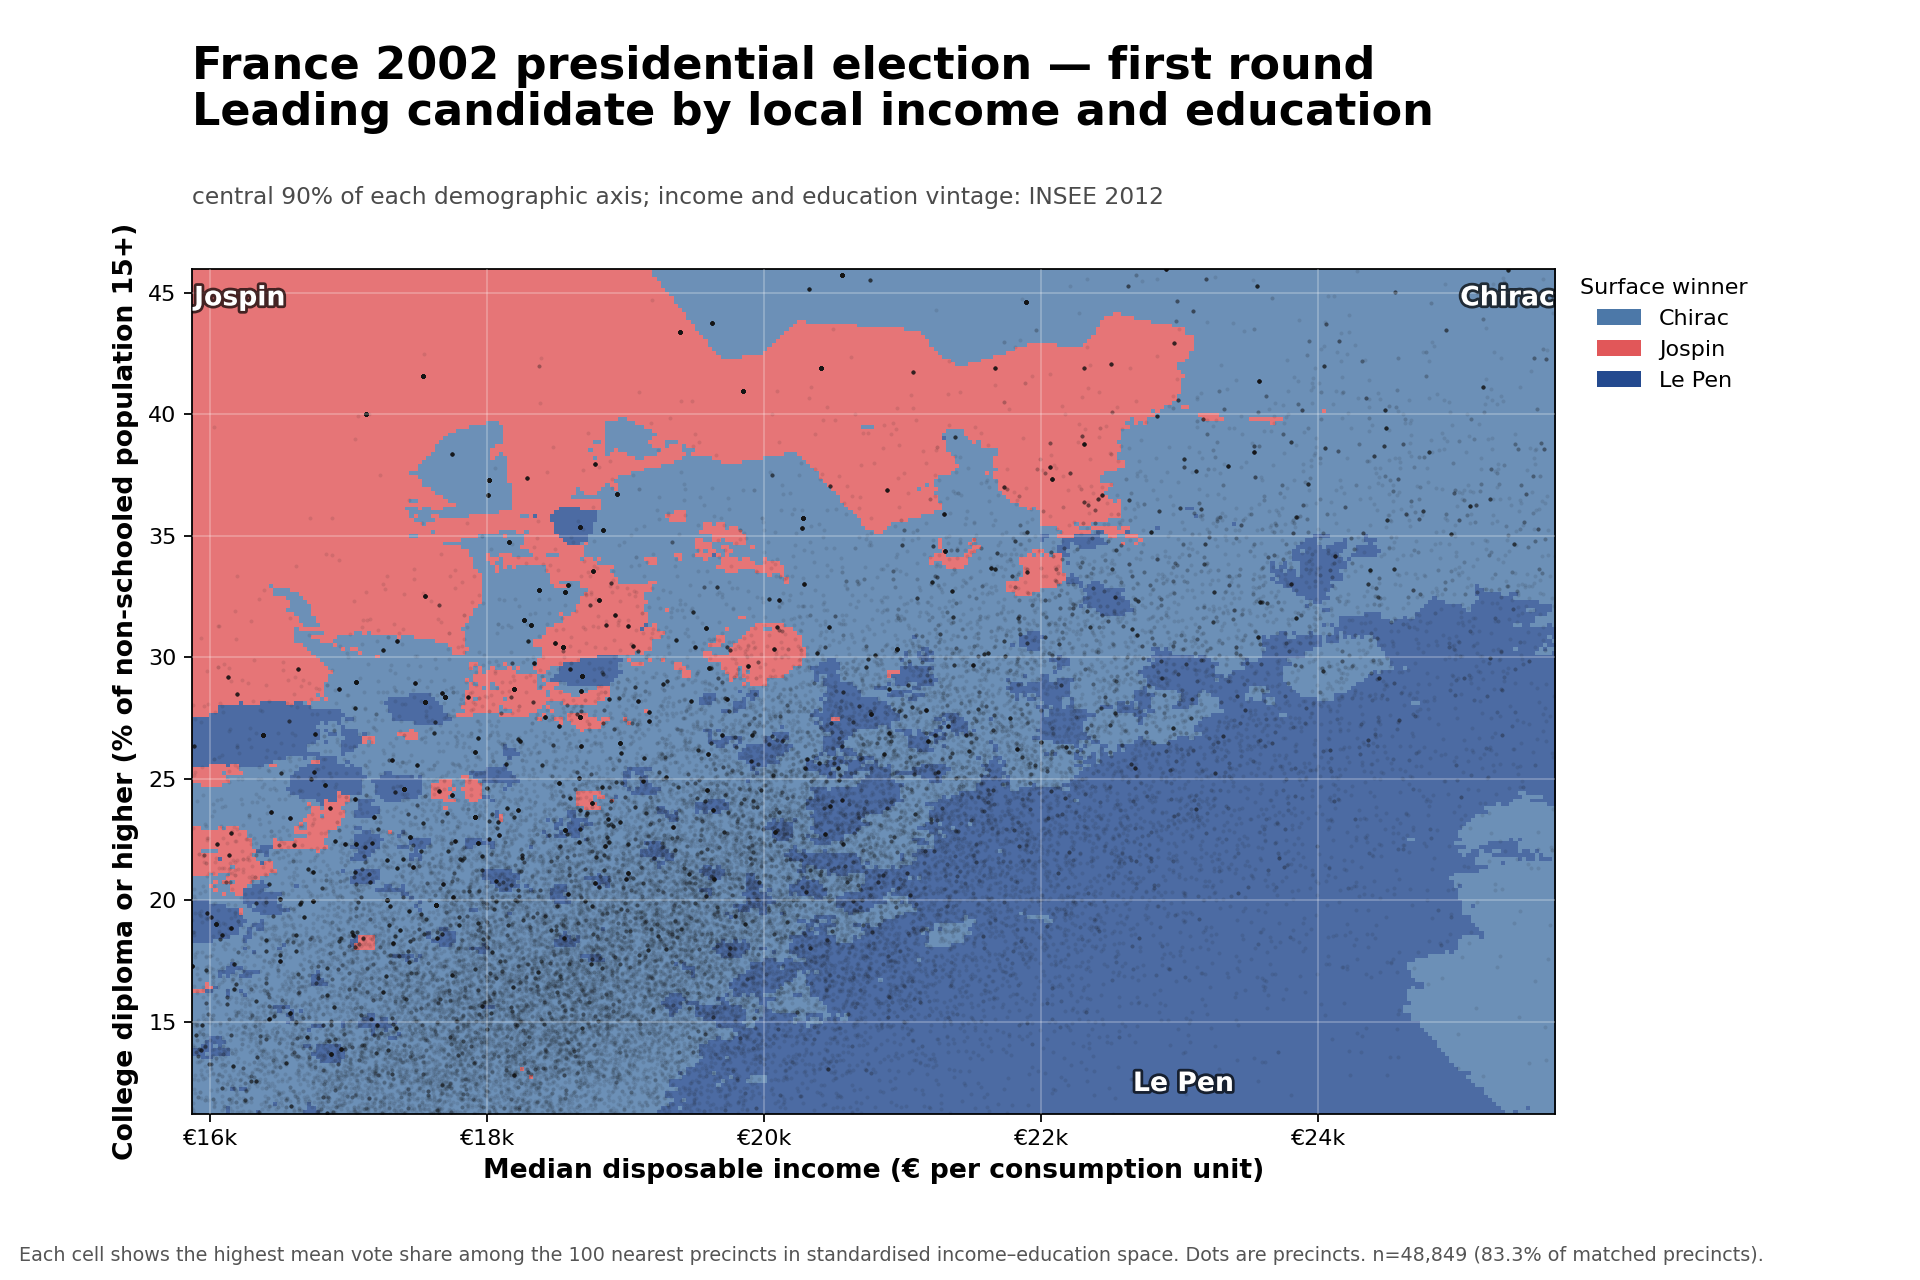
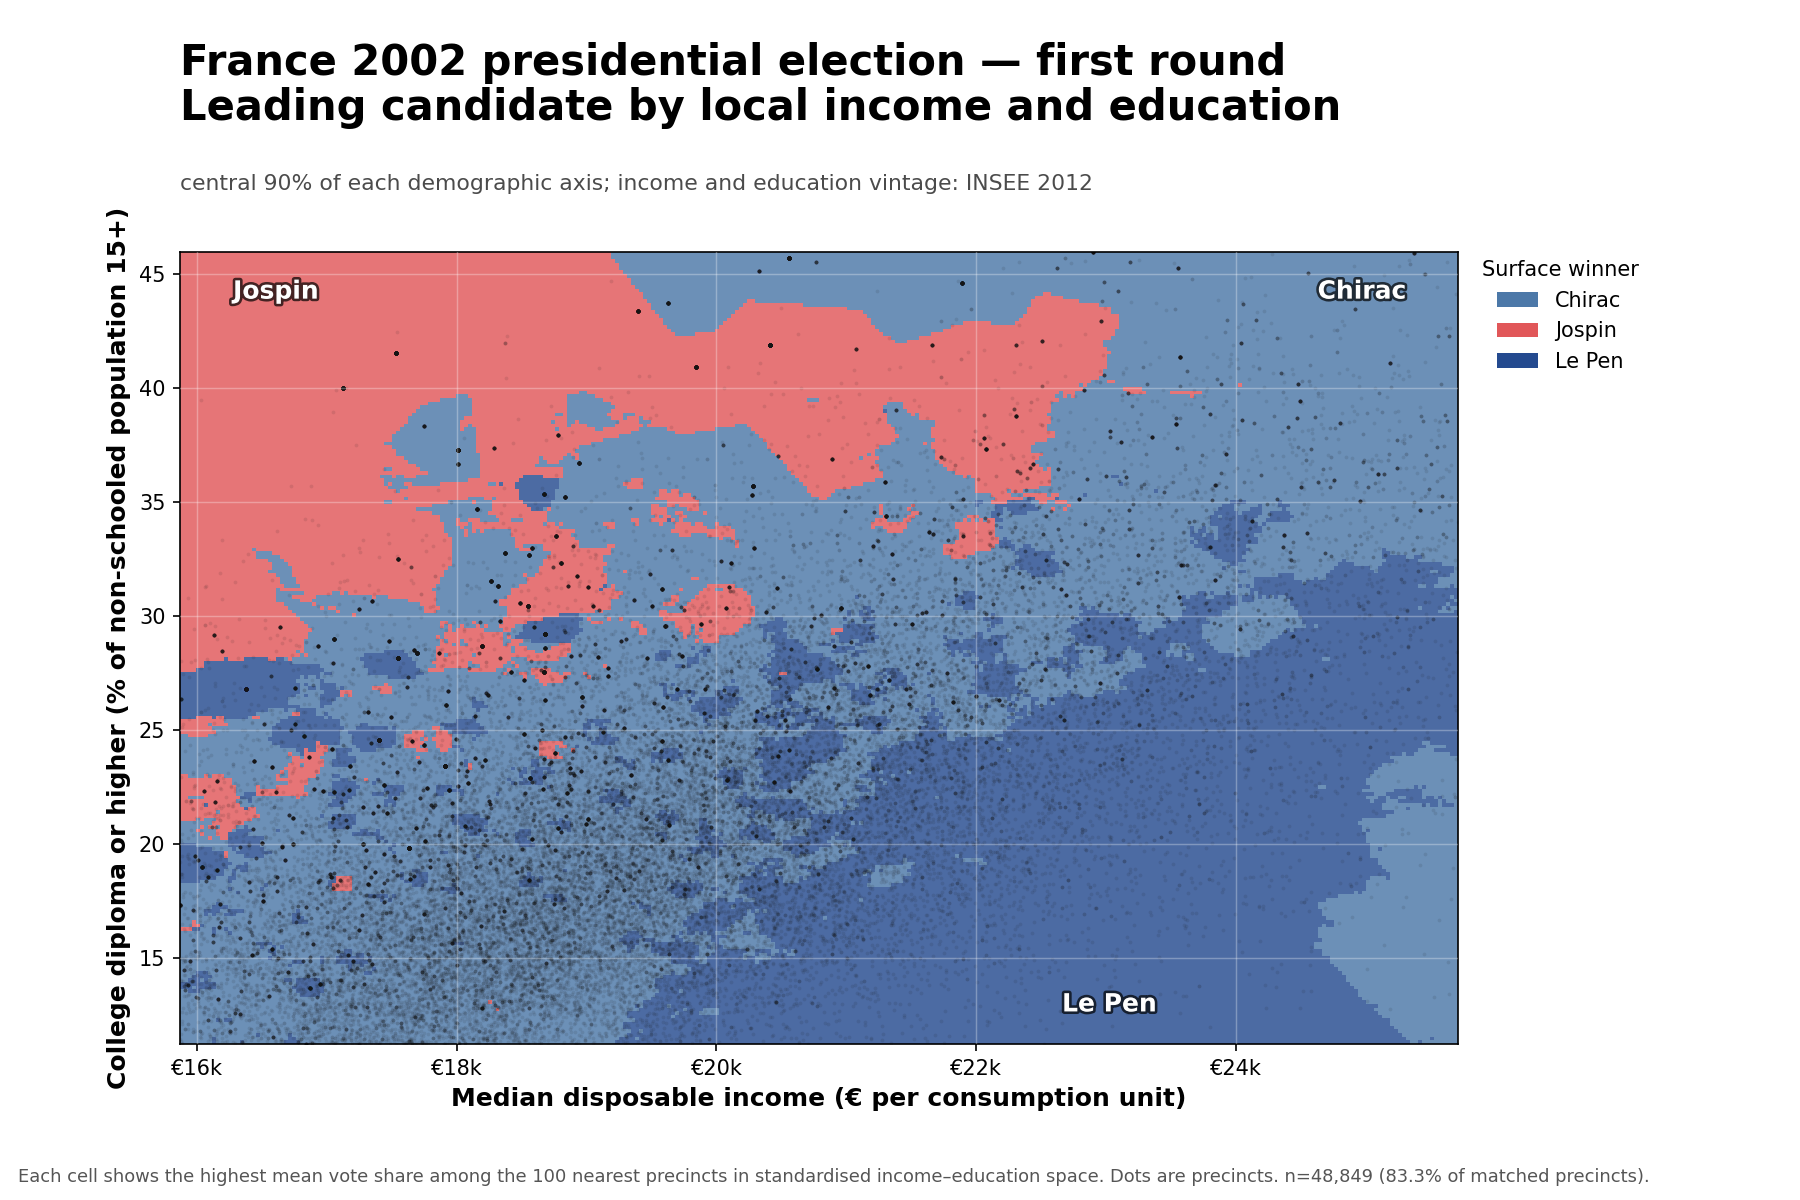
Fix candidate landscape image bounds

diff --git a/analysis/candidate_landscape_income_education.py b/analysis/candidate_landscape_income_education.py
@@ -350,7 +350,8 @@ def label_regions(
     y_grid: np.ndarray,
     candidate_names: list[str],
     colours: list[str],
-) -> None:
+) -> list[plt.Text]:
+    labels: list[plt.Text] = []
     total_cells = surface.size
     for index in np.unique(surface):
         mask = surface == index
@@ -366,8 +367,9 @@ def label_regions(
         row, column = np.unravel_index(np.argmax(distance_transform_edt(region)), region.shape)
         text_colour = readable_text_colour(colours[index])
         outline = "white" if text_colour == "#111111" else "black"
-        x_padding = 0.035 * (x_grid.max() - x_grid.min())
-        y_padding = 0.035 * (y_grid.max() - y_grid.min())
+        # Keep even long names such as "Mélenchon" fully inside the axes.
+        x_padding = 0.075 * (x_grid.max() - x_grid.min())
+        y_padding = 0.050 * (y_grid.max() - y_grid.min())
         text_x = np.clip(x_grid[column], x_grid.min() + x_padding, x_grid.max() - x_padding)
         text_y = np.clip(y_grid[row], y_grid.min() + y_padding, y_grid.max() - y_padding)
         label = ax.text(
@@ -383,6 +385,52 @@ def label_regions(
             clip_on=True,
         )
         label.set_path_effects([path_effects.withStroke(linewidth=2.5, foreground=outline, alpha=0.7)])
+        labels.append(label)
+    return labels
+
+
+def validate_layout(fig: plt.Figure, ax: plt.Axes, region_labels: list[plt.Text]) -> None:
+    """Fail the build if text is clipped by the canvas or plot boundary."""
+    fig.canvas.draw()
+    renderer = fig.canvas.get_renderer()
+    canvas = fig.bbox
+    axes_box = ax.get_window_extent(renderer)
+
+    checked_text = [
+        *fig.texts,
+        ax.title,
+        ax.xaxis.label,
+        ax.yaxis.label,
+        *ax.get_xticklabels(),
+        *ax.get_yticklabels(),
+    ]
+    legend = ax.get_legend()
+    if legend is not None:
+        checked_text.extend(legend.get_texts())
+        checked_text.append(legend.get_title())
+
+    for artist in checked_text:
+        if not artist.get_visible() or not artist.get_text().strip():
+            continue
+        box = artist.get_window_extent(renderer)
+        # Locators can retain ticks just outside the displayed range. They are
+        # not rendered, so exclude them from the canvas-clipping assertion.
+        if artist in ax.get_xticklabels() and not axes_box.overlaps(box):
+            continue
+        if artist in ax.get_yticklabels() and not axes_box.overlaps(box):
+            continue
+        if box.x0 < -1 or box.y0 < -1 or box.x1 > canvas.x1 + 1 or box.y1 > canvas.y1 + 1:
+            raise ValueError(f"Text falls outside figure canvas: {artist.get_text()!r}")
+
+    for artist in region_labels:
+        box = artist.get_window_extent(renderer)
+        if (
+            box.x0 < axes_box.x0 + 2
+            or box.y0 < axes_box.y0 + 2
+            or box.x1 > axes_box.x1 - 2
+            or box.y1 > axes_box.y1 - 2
+        ):
+            raise ValueError(f"Candidate label is clipped by plot boundary: {artist.get_text()!r}")
 
 
 def plot_landscape(
@@ -435,7 +483,7 @@ def plot_landscape(
         rasterized=True,
         zorder=2,
     )
-    label_regions(ax, surface, x_grid, y_grid, candidate_names, colours)
+    region_labels = label_regions(ax, surface, x_grid, y_grid, candidate_names, colours)
 
     subtitle = "central 90% of each demographic axis" if trimmed else "complete matched sample"
     fig.text(
@@ -494,11 +542,17 @@ def plot_landscape(
         color="#555555",
     )
     fig.subplots_adjust(left=0.10, right=0.81, top=0.79, bottom=0.13)
+    validate_layout(fig, ax, region_labels)
 
     suffix = "central90" if trimmed else "full"
     out_dir.mkdir(parents=True, exist_ok=True)
     output = out_dir / f"leading_candidate_income_education_{year}_{suffix}.png"
-    fig.savefig(output, dpi=160, facecolor="white")
+    fig.savefig(
+        output,
+        dpi=150,
+        facecolor="white",
+        pil_kwargs={"optimize": True, "compress_level": 9},
+    )
     plt.close(fig)
     print(f"saved {output} ({len(plotted):,} precincts)")
     return {
